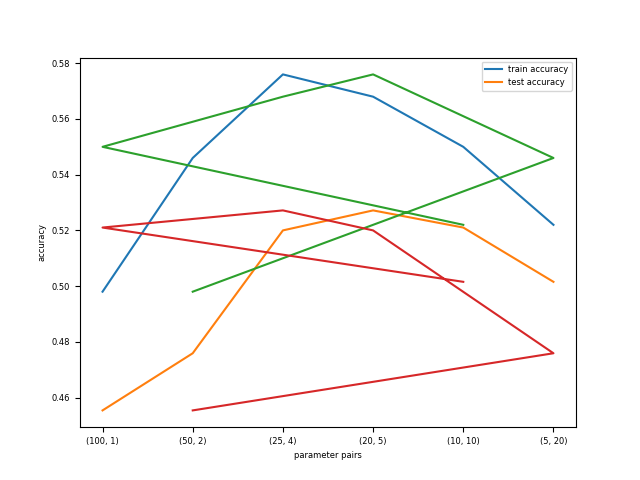
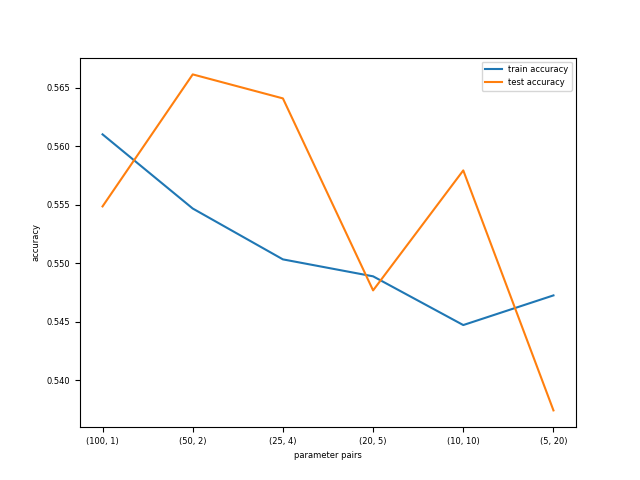
all models unified. all models use a single estimator at the beginning to find the initial capacity controlling hyperparameters. then, this value is lowered in proportion to the number of estimators added, in the adaboost loop.

diff --git a/experiments.py b/experiments.py
@@ -28,7 +28,7 @@ def kfold_train_loop(data, model):
     model_train_acc = accuracy_score(y_train_pred, data['y']['train'])
     model_test_acc = accuracy_score(y_test_pred, data['y']['test'])
 
-    LOGGER.info('train/valid accuracy: {}/{}'.format(
+    LOGGER.info('train/test accuracy after cross-validation: {}/{}'.format(
         model_train_acc, model_test_acc))
 
     results = {'train': model_train_acc, 'test':  model_test_acc}
@@ -36,22 +36,34 @@ def kfold_train_loop(data, model):
     return(results, model)
 
 
-def svm(data):
+def svm(data, n_estimators, experiment_name):
     """linear svm with and without adaboost"""
     # get the non-boosted model results
     model = models.SVM()
-    single_results, single_best_model = kfold_train_loop(data, model)
+    _, single_best_model = kfold_train_loop(data, model)
+    estimator = single_best_model.best_estimator_.named_steps['clf']
 
-    # get the boosted model results
-    model = models.boosted_SVM(single_best_model) # returns a model ready to train
-    results, best_model = kfold_train_loop(data, model)
-    return(results, best_model)
+    # use optimal parameter C to generate param_pairs
+    C = estimator.C
+    param_pairs = []
+    for n in n_estimators:
+        param_pairs.append((C/n, n))
+
+    storage = {'train_acc': [], 'test_acc': []}
+    for C, n_learners in param_pairs:
+        model = models.boosted_SVM(estimator, C=C, n_learners=n_learners)
+        results, _ = kfold_train_loop(data, model)
+        storage['train_acc'].append(results['train'])
+        storage['test_acc'].append(results['test'])
+
+    utils.plot_results(
+        storage['train_acc'], storage['test_acc'], param_pairs, experiment_name)
+
+    return(storage)
 
 
-def decision_tree(data, param_pairs):
-    """
-    Decision tree experiment
-    """
+def decision_tree(data, param_pairs, experiment_name):
+    """decision tree with and without adaboost"""
     decision_tree = models.decision_tree(data)
     _, single_model = kfold_train_loop(data, decision_tree)
     estimator = single_model.best_estimator_.named_steps['clf']
@@ -76,17 +88,24 @@ def decision_tree(data, param_pairs):
     return(storage)
 
 
-def mlp(data, param_pairs, experiment_name):
+def mlp(data, n_estimators, experiment_name):
     """mlp with and without adaboost"""
     # get the non-boosted model results
-    model = models.mlp(n_hid=param_pairs[0][0])
-    single_results, single_model = kfold_train_loop(data, model)
+    model = models.mlp()
+    _, single_model = kfold_train_loop(data, model)
+    estimator = single_model.best_estimator_.named_steps['clf']
+
+    # use optimal parameter C to generate param_pairs
+    n_hid = estimator.hidden_layer_sizes
+    param_pairs = []
+    for n in n_estimators:
+        param_pairs.append((int(np.floor(n_hid/n)), n))
 
     storage = {'train_acc': [], 'test_acc': []}
 
     # get the boosted model results using learned single model hyperparamaters
     for n_hid, n_learners in param_pairs:
-        model = models.boosted_mlp(single_model, n_hid=n_hid, n_learners=n_learners)
+        model = models.boosted_mlp(estimator, n_hid=n_hid, n_learners=n_learners)
         boosted_results, boosted_best_model = kfold_train_loop(data, model)
         storage['train_acc'].append(boosted_results['train'])
         storage['test_acc'].append(boosted_results['test'])

diff --git a/models.py b/models.py
@@ -65,17 +65,18 @@ def SVM():
     return(model)
 
 
-def boosted_SVM(model):
+def boosted_SVM(estimator, C=1, n_learners=10):
     """ baseline: linear classifier (without kernel)"""
-
     settings = {
-	    'clf__n_estimators':[25,30,35,40,45,50],
         'clf__learning_rate': SETTINGS['ada_lr']
     }
 
-    estimator = model.best_estimator_.named_steps['clf']
+    # set up this estimator's C parameter and adaboost
+    LOGGER.debug('setting up adaboost with C={}, n_estimators={}'.format(
+        C, n_learners))
+    estimator.C = C
     clf = AdaBoostClassifier(
-        base_estimator=estimator, algorithm='SAMME'
+        base_estimator=estimator, n_estimators=n_learners, algorithm='SAMME'
     )
 
     pipeline = Pipeline([
@@ -91,9 +92,8 @@ def boosted_SVM(model):
 
 
 def decision_tree(data):
-    """
-    Decision tree model with search
-    """
+    """decision tree model"""
+    LOGGER.debug('building decision tree model')
     n_features = data['X']['train'].shape[1]
     n_samples = data['X']['train'].shape[0]
     min_samples_split = [int(0.001*n_samples), int(0.1*n_samples)]
@@ -130,6 +130,8 @@ def random_forest(base_model, max_depth, n_learners):
     }
 
     # set up max_depth and n_learners (per-model parameters vs n in ensemble)
+    LOGGER.debug('setting up adaboost with max_depth={}, n_estimators={}'.format(
+        max_depth, n_learners))
     base_model.max_depth = max_depth
     booster = AdaBoostClassifier(base_estimator=base_model, n_estimators=n_learners)
 
@@ -145,18 +147,20 @@ def random_forest(base_model, max_depth, n_learners):
     return(model)
 
 
-def mlp(n_hid=100):
+def mlp():
     """build a not-boosted MLP classifier"""
+    LOGGER.debug('building mlp model')
+
     # alpha = l2 regularization, reciprocal == log-uniform distribution
     settings = {
         'clf__alpha': stats.reciprocal(10e-6, 10e-1),
-        'clf__learning_rate_init': stats.reciprocal(10e-6, 10e-1)
+        'clf__learning_rate_init': stats.reciprocal(10e-6, 10e-1),
+        'clf__hidden_layer_sizes': stats.randint(40, 1000)
     }
 
     clf =  MLPClassifier(
-        activation='relu', solver='sgd',  batch_size=32,
-        hidden_layer_sizes=n_hid, learning_rate='invscaling', momentum=0.9,
-        nesterovs_momentum=True, early_stopping=True
+        activation='relu', solver='sgd',  batch_size=32, early_stopping=True,
+        learning_rate='invscaling', momentum=0.9, nesterovs_momentum=True
     )
 
     pipeline = Pipeline([
@@ -172,14 +176,15 @@ def mlp(n_hid=100):
     return(model)
 
 
-def boosted_mlp(model, n_hid=10, n_learners=10):
+def boosted_mlp(estimator, n_hid=10, n_learners=10):
     """uses model learned by mlp_single for the model settings"""
     settings = {
         'clf__learning_rate': SETTINGS['ada_lr']
     }
 
-    # now set hidden layer size to 10
-    estimator = model.best_estimator_.named_steps['clf']
+    # set hidden layer size on estimator, and set up adaboost
+    LOGGER.debug('setting up adaboost with n_hid={}, n_estimators={}'.format(
+        n_hid, n_learners))
     estimator.hidden_layer_sizes = n_hid
     clf = AdaBoostClassifier(
         base_estimator=estimator, n_estimators=n_learners, algorithm='SAMME'

diff --git a/train.py b/train.py
@@ -30,24 +30,25 @@ def main(args):
     wine_data = utils.load_wine(args.test)
     covt_data = utils.load_covertype(args.test)
 
-    if args.model == 'decision_tree':
+    if args.model not in ['decision_tree', 'mlp', 'svm', 'all']:
+        LOGGER.error('invalid experiment submitted -m {decision_tree, svm, mlp, all}')
+        sys.exit(1)
+
+    if args.model == 'decision_tree' or args.model == 'all':
         #param_pairs = [(6, 1), (5, 5), (4, 10), (3, 15), (2, 20), (1, 25)]
         param_pairs = [(6, 1), (5, 2), (4, 3), (3, 4), (2, 5), (1, 6)]
         results = exp.decision_tree(wine_data, param_pairs, 'tree-wine')
         results = exp.decision_tree(covt_data, param_pairs, 'tree-covt')
 
-    elif args.model == 'svm':
-        svm_pred, svm_model = exp.svm(wine_data, 'svm-wine')
-        svm_pred, svm_model = exp.svm(wine_data, 'svm-covt')
+    if args.model == 'svm' or args.model == 'all':
+        n_estimators = [1, 2, 4, 5, 10, 20]
+        svm_pred, svm_model = exp.svm(wine_data, n_estimators, 'svm-wine')
+        svm_pred, svm_model = exp.svm(covt_data, n_estimators, 'svm-covt')
 
-    elif args.model == 'mlp':
-        param_pairs = [(100, 1), (50, 2), (25, 4), (20, 5), (10, 10), (5, 20)]
-        results = exp.mlp(wine_data, param_pairs, 'mlp-wine')
-        results = exp.mlp(wine_data, param_pairs, 'mlp-covt')
-
-    else:
-        LOGGER.warning('invalid experiment submitted -m {decision_tree, svm, mlp}')
-        sys.exit(1)
+    if args.model == 'mlp' or args.model == 'all':
+        n_estimators = [1, 2, 4, 5, 10, 20]
+        results = exp.mlp(wine_data, n_estimators, 'mlp-wine')
+        results = exp.mlp(covt_data, n_estimators, 'mlp-covt')
 
 
 if __name__ == "__main__":
@@ -56,7 +57,6 @@ if __name__ == "__main__":
     argparser.add_argument("-v", "--verbose", action="store_true", help="increase output verbosity")
     argparser.add_argument("-t", "--test", action="store_true", help="training set size=500")
     argparser.add_argument("-m", "--model", help="which model?")
-    argparser.add_argument("-ada", "--adaboost", type=bool, default=False, help="Should adaboost be used?")
     args = argparser.parse_args()
 
     if args.verbose:

diff --git a/utils.py b/utils.py
@@ -116,7 +116,8 @@ def load_covertype(test_mode=False, test_pct=0.1):
     y = le.fit_transform(data[idx, -1])
 
     # split into training and test set
-    n_test = np.floor(len(X) * test_pct)
+    n_test = int(np.floor(len(X) * test_pct))
+
     X_test = X[:n_test, :]
     y_test = y[:n_test]
     X_train = X[n_test:, :]
@@ -124,9 +125,9 @@ def load_covertype(test_mode=False, test_pct=0.1):
 
     # test_mode uses a small subset of the data
     if test_mode:
-        LOGGER.info('running in test mode, train n=500')
-        X_train = X_train[:500, :]
-        y_train = y_train[:500]
+        LOGGER.info('running in test mode, train n=5000')
+        X_train = X_train[:5000, :]
+        y_train = y_train[:5000]
 
     # data is accessed as data['X']['test']
     data = {
@@ -138,5 +139,4 @@ def load_covertype(test_mode=False, test_pct=0.1):
         X_train.shape[0], X_test.shape[0]))
 
     return(data)
-
 
